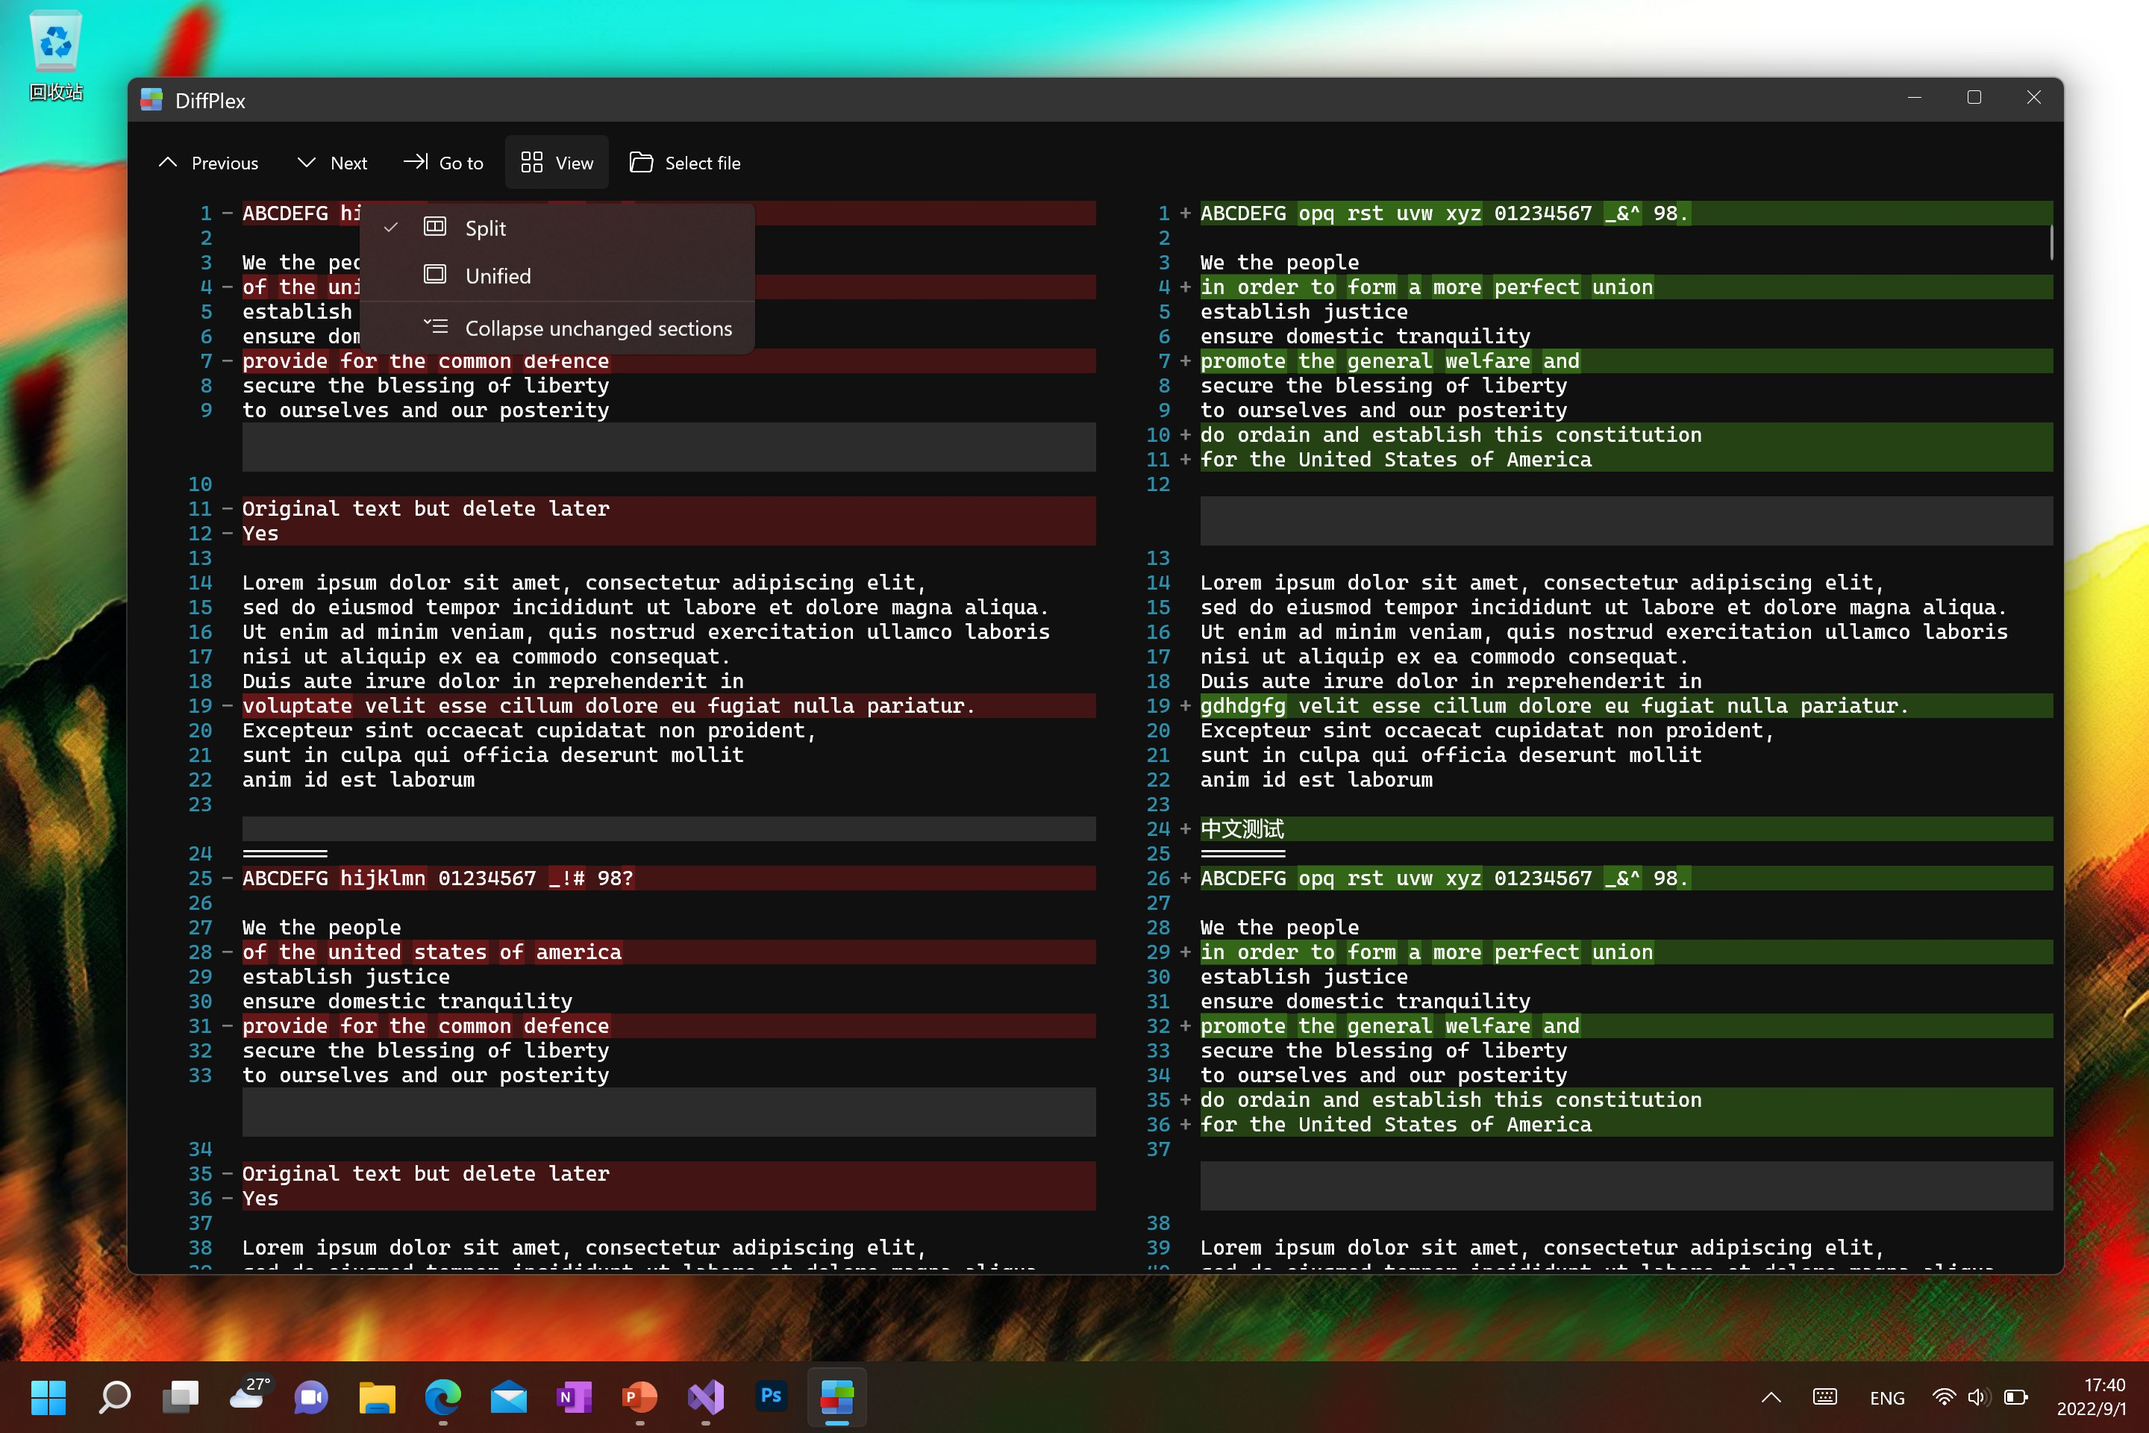
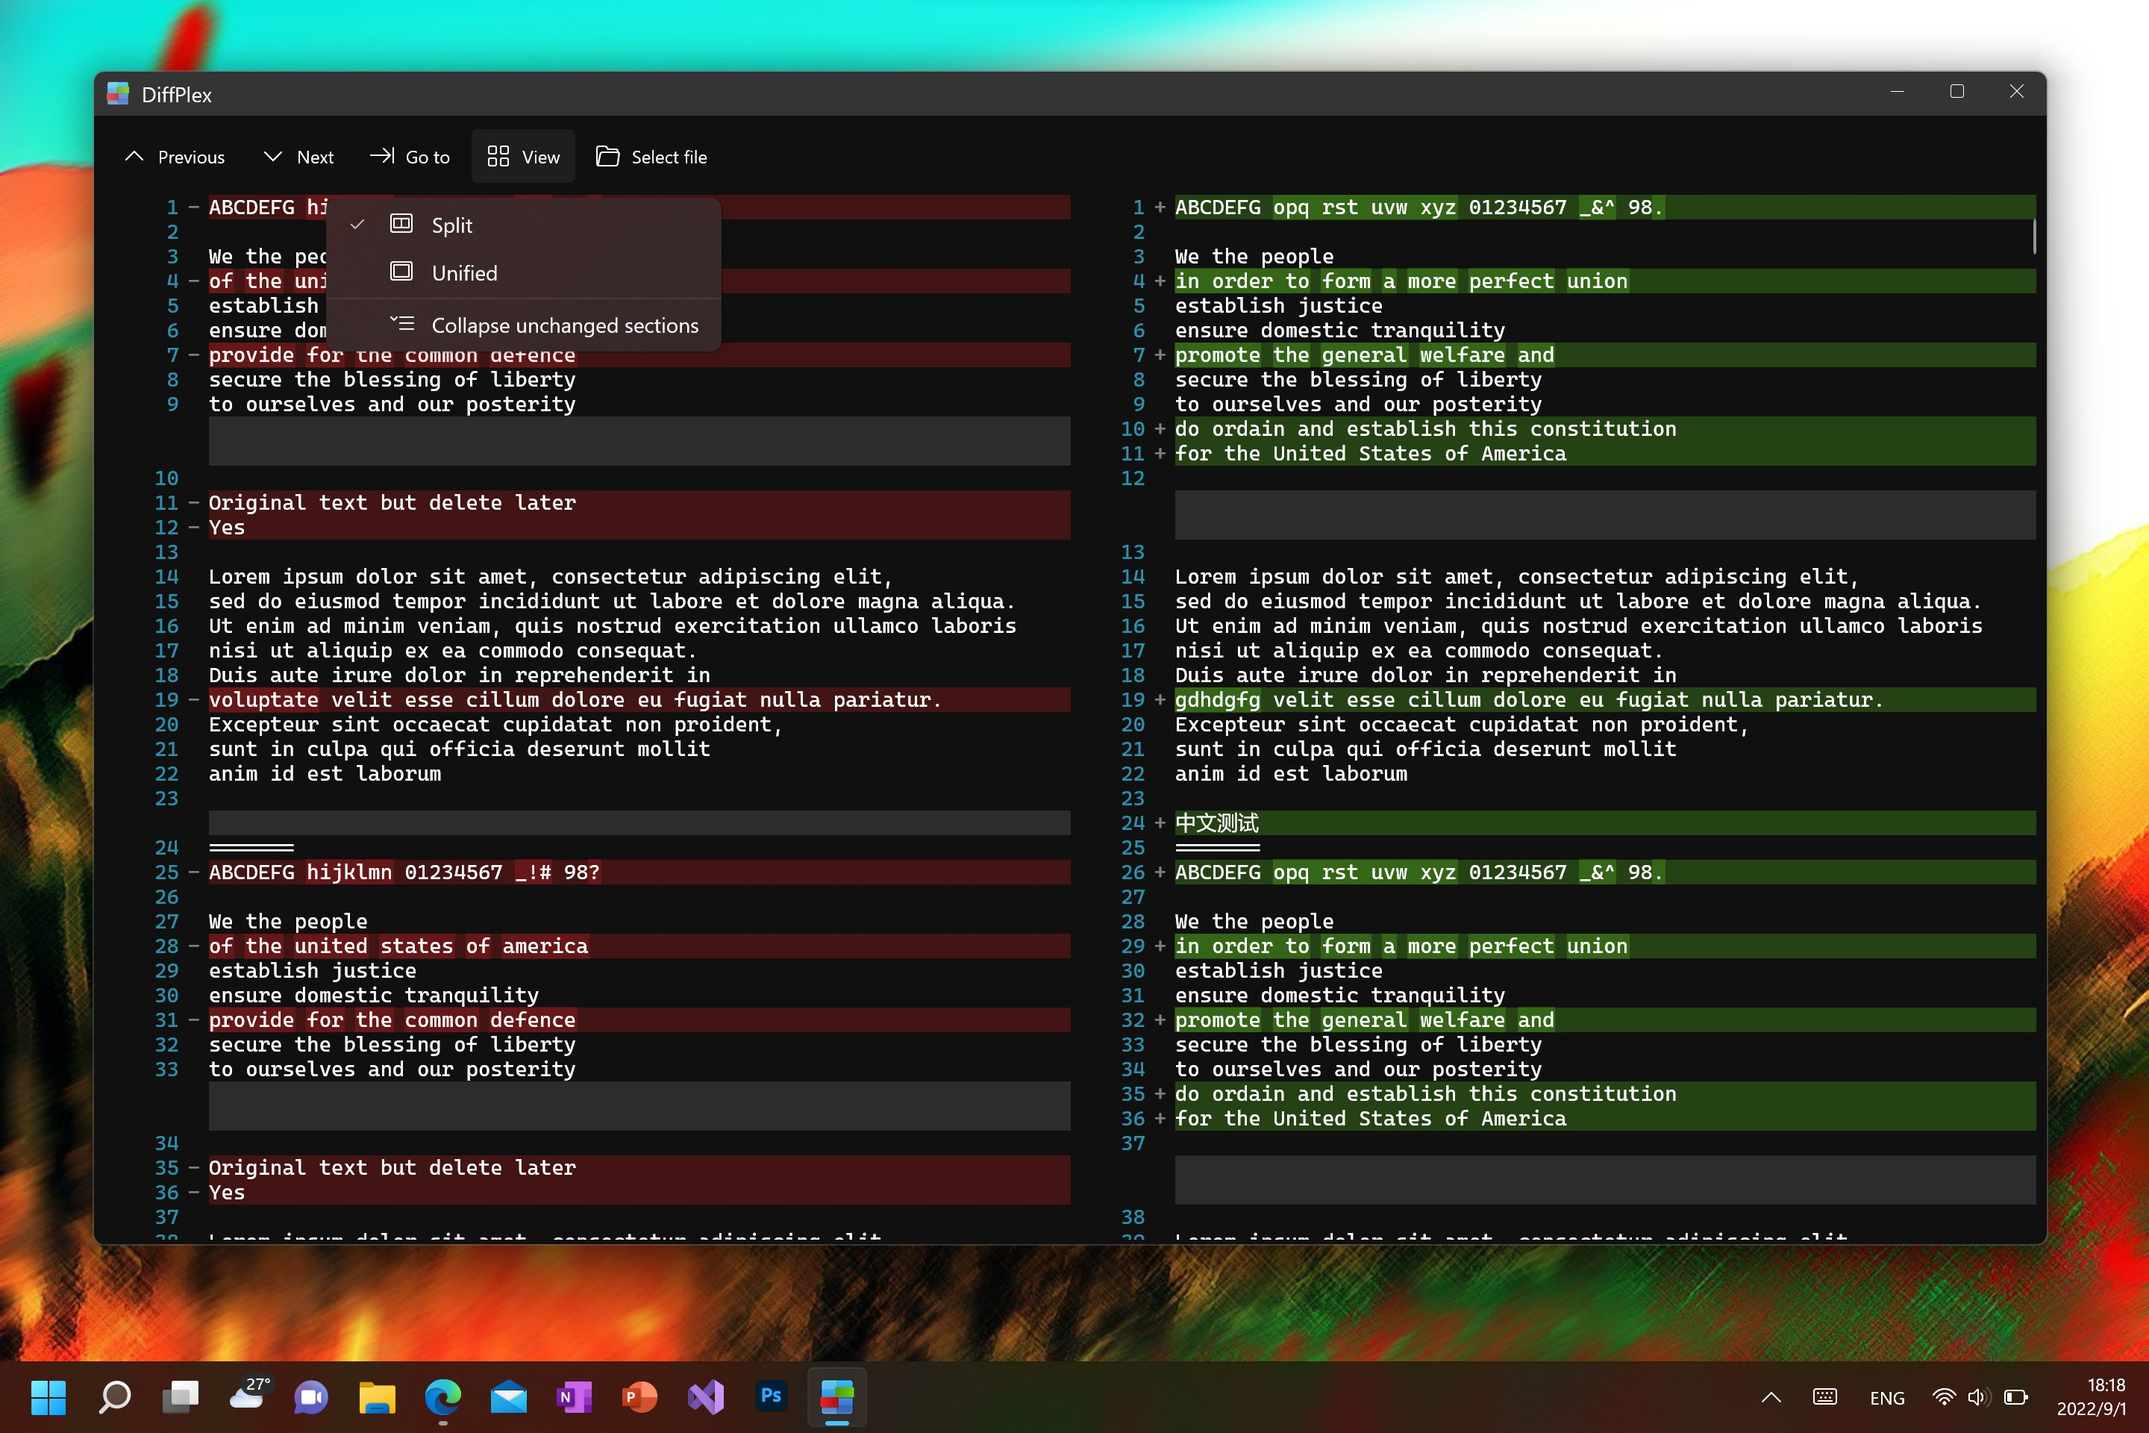
Update readme.

Changed region(s): [[0.0, 0.0, 0.9688, 0.9375]]

diff --git a/DiffPlex.Windows/DiffTextView.xaml b/DiffPlex.Windows/DiffTextView.xaml
@@ -39,7 +39,7 @@
                     </Style>
                 </Setter.Value>
             </Setter>
-            <Setter Property="PrefixStyle" >
+            <Setter Property="ChangeTypeStyle" >
                 <Setter.Value>
                     <Style TargetType="TextBlock" >
                         <Setter Property="Foreground" Value="#808080" />
@@ -108,7 +108,7 @@
                         </ToggleMenuFlyoutItem>
                         <MenuFlyoutSubItem x:Name="LinesContextMenuItem" x:Uid="\InternalResources\LineContextText" Text="Lines for context" Visibility="Collapsed" >
                             <MenuFlyoutSubItem.Icon>
-                                <FontIcon Glyph="&#xE170;" />
+                                <FontIcon Glyph="&#xE133;" />
                             </MenuFlyoutSubItem.Icon>
                             <ToggleMenuFlyoutItem Text="0" Click="OnLinesContextClick" />
                             <ToggleMenuFlyoutItem Text="1" Click="OnLinesContextClick" />
@@ -173,8 +173,8 @@
                             <ColumnDefinition Width="*" />
                             <ColumnDefinition Width="*" />
                         </Grid.ColumnDefinitions>
-                        <controls:TextLineBlock TextHighlighters="{x:Bind GetLeftHighlighter()}" Foreground="{Binding Path=Foreground, ElementName=CurrentControl}" TextBackground="{x:Bind Left.Type, Converter={StaticResource OldBrushConverter}}" LineNumberWidth="{Binding Path=LineNumberWidth, ElementName=CurrentControl}" LineNumber="{x:Bind Left.Position}" LineNumberStyle="{Binding Path=LineNumberStyle, ElementName=CurrentControl}" Prefix="{x:Bind Left.Type, Converter={StaticResource OldBrushConverter}}" PrefixWidth="{Binding Path=PrefixWidth, ElementName=CurrentControl}" PrefixStyle="{Binding Path=PrefixStyle, ElementName=CurrentControl}" Text="{x:Bind Left.Text}" TextStyle="{Binding Path=TextStyle, ElementName=CurrentControl}" IsTextSelectionEnabled="{Binding Path=IsTextSelectionEnabled, ElementName=CurrentControl}" Grid.Column="0" />
-                        <controls:TextLineBlock TextHighlighters="{x:Bind GetRightHighlighter()}" Foreground="{Binding Path=Foreground, ElementName=CurrentControl}" TextBackground="{x:Bind Right.Type, Converter={StaticResource NewBrushConverter}}" LineNumberWidth="{Binding Path=LineNumberWidth, ElementName=CurrentControl}" LineNumber="{x:Bind Right.Position}" LineNumberStyle="{Binding Path=LineNumberStyle, ElementName=CurrentControl}" Prefix="{x:Bind Right.Type, Converter={StaticResource NewBrushConverter}}" PrefixWidth="{Binding Path=PrefixWidth, ElementName=CurrentControl}" PrefixStyle="{Binding Path=PrefixStyle, ElementName=CurrentControl}" Text="{x:Bind Right.Text}" TextStyle="{Binding Path=TextStyle, ElementName=CurrentControl}" IsTextSelectionEnabled="{Binding Path=IsTextSelectionEnabled, ElementName=CurrentControl}" Grid.Column="1" />
+                        <controls:TextLineBlock TextHighlighters="{x:Bind GetLeftHighlighter()}" Foreground="{Binding Path=Foreground, ElementName=CurrentControl}" TextBackground="{x:Bind Left.Type, Converter={StaticResource OldBrushConverter}}" LineNumberWidth="{Binding Path=LineNumberWidth, ElementName=CurrentControl}" LineNumber="{x:Bind Left.Position}" LineNumberStyle="{Binding Path=LineNumberStyle, ElementName=CurrentControl}" Prefix="{x:Bind Left.Type, Converter={StaticResource OldBrushConverter}}" PrefixWidth="{Binding Path=ChangeTypeWidth, ElementName=CurrentControl}" PrefixStyle="{Binding Path=ChangeTypeStyle, ElementName=CurrentControl}" Text="{x:Bind Left.Text}" TextStyle="{Binding Path=TextStyle, ElementName=CurrentControl}" IsTextSelectionEnabled="{Binding Path=IsTextSelectionEnabled, ElementName=CurrentControl}" Grid.Column="0" />
+                        <controls:TextLineBlock TextHighlighters="{x:Bind GetRightHighlighter()}" Foreground="{Binding Path=Foreground, ElementName=CurrentControl}" TextBackground="{x:Bind Right.Type, Converter={StaticResource NewBrushConverter}}" LineNumberWidth="{Binding Path=LineNumberWidth, ElementName=CurrentControl}" LineNumber="{x:Bind Right.Position}" LineNumberStyle="{Binding Path=LineNumberStyle, ElementName=CurrentControl}" Prefix="{x:Bind Right.Type, Converter={StaticResource NewBrushConverter}}" PrefixWidth="{Binding Path=ChangeTypeWidth, ElementName=CurrentControl}" PrefixStyle="{Binding Path=ChangeTypeStyle, ElementName=CurrentControl}" Text="{x:Bind Right.Text}" TextStyle="{Binding Path=TextStyle, ElementName=CurrentControl}" IsTextSelectionEnabled="{Binding Path=IsTextSelectionEnabled, ElementName=CurrentControl}" Grid.Column="1" />
                     </Grid>
                 </DataTemplate>
             </ListView.ItemTemplate>
@@ -182,7 +182,7 @@
         <ListView x:Name="UnifiedElement" Foreground="{x:Bind Foreground}" Margin="0" Visibility="Collapsed" ItemContainerStyle="{x:Bind ItemContainerStyle}" SelectionMode="{x:Bind SelectionMode}" SelectionChanged="OnSelectionChanged" Grid.Row="1" >
             <ListView.ItemTemplate>
                 <DataTemplate x:DataType="local:InlineDiffTextViewModel" >
-                    <controls:TextLineBlock TextHighlighters="{x:Bind GetTextHighlighter()}" Foreground="{Binding Path=Foreground, ElementName=CurrentControl}" TextBackground="{x:Bind Line.Type, Converter={StaticResource NewBrushConverter}}" LineNumberWidth="{Binding Path=LineNumberWidth, ElementName=CurrentControl}" LineNumber="{x:Bind Position}" LineNumberStyle="{Binding Path=LineNumberStyle, ElementName=CurrentControl}" PrefixWidth="{Binding Path=PrefixWidth, ElementName=CurrentControl}" PrefixStyle="{Binding Path=PrefixStyle, ElementName=CurrentControl}" Text="{x:Bind Text}" TextStyle="{Binding Path=TextStyle, ElementName=CurrentControl}" IsTextSelectionEnabled="{Binding Path=IsTextSelectionEnabled, ElementName=CurrentControl}" />
+                    <controls:TextLineBlock TextHighlighters="{x:Bind GetTextHighlighter()}" Foreground="{Binding Path=Foreground, ElementName=CurrentControl}" TextBackground="{x:Bind Line.Type, Converter={StaticResource NewBrushConverter}}" LineNumberWidth="{Binding Path=LineNumberWidth, ElementName=CurrentControl}" LineNumber="{x:Bind Position}" LineNumberStyle="{Binding Path=LineNumberStyle, ElementName=CurrentControl}" PrefixWidth="{Binding Path=ChangeTypeWidth, ElementName=CurrentControl}" PrefixStyle="{Binding Path=ChangeTypeStyle, ElementName=CurrentControl}" Text="{x:Bind Text}" TextStyle="{Binding Path=TextStyle, ElementName=CurrentControl}" IsTextSelectionEnabled="{Binding Path=IsTextSelectionEnabled, ElementName=CurrentControl}" />
                 </DataTemplate>
             </ListView.ItemTemplate>
         </ListView>

diff --git a/DiffPlex.Windows/DiffTextView.xaml.cs b/DiffPlex.Windows/DiffTextView.xaml.cs
@@ -55,14 +55,14 @@ public sealed partial class DiffTextView : UserControl
     public static readonly DependencyProperty TextStyleProperty = DependencyObjectProxy.RegisterProperty<Style>(nameof(TextStyle));
 
     /// <summary>
-    /// The dependency property of prefix text style.
+    /// The dependency property of change type style.
     /// </summary>
-    public static readonly DependencyProperty PrefixStyleProperty = DependencyObjectProxy.RegisterProperty<Style>(nameof(PrefixStyle));
+    public static readonly DependencyProperty ChangeTypeStyleProperty = DependencyObjectProxy.RegisterProperty<Style>(nameof(ChangeTypeStyle));
 
     /// <summary>
-    /// The dependency property of prefix text width.
+    /// The dependency property of change type width.
     /// </summary>
-    public static readonly DependencyProperty PrefixWidthProperty = DependencyObjectProxy.RegisterProperty(nameof(PrefixWidth), new GridLength(20));
+    public static readonly DependencyProperty ChangeTypeWidthProperty = DependencyObjectProxy.RegisterProperty(nameof(ChangeTypeWidth), new GridLength(20));
 
     /// <summary>
     /// The dependency property of line number style.
@@ -186,21 +186,21 @@ public sealed partial class DiffTextView : UserControl
     }
 
     /// <summary>
-    /// Gets or sets the prefix text style.
+    /// Gets or sets the change type style.
     /// </summary>
-    public Style PrefixStyle
+    public Style ChangeTypeStyle
     {
-        get => (Style)GetValue(PrefixStyleProperty);
-        set => SetValue(PrefixStyleProperty, value);
+        get => (Style)GetValue(ChangeTypeStyleProperty);
+        set => SetValue(ChangeTypeStyleProperty, value);
     }
 
     /// <summary>
-    /// Gets or sets the width of prefix text.
+    /// Gets or sets the width of change type text.
     /// </summary>
-    public GridLength PrefixWidth
+    public GridLength ChangeTypeWidth
     {
-        get => (GridLength)GetValue(PrefixWidthProperty);
-        set => SetValue(PrefixWidthProperty, value);
+        get => (GridLength)GetValue(ChangeTypeWidthProperty);
+        set => SetValue(ChangeTypeWidthProperty, value);
     }
 
     /// <summary>
@@ -390,6 +390,35 @@ public sealed partial class DiffTextView : UserControl
     /// Scrolls to previous diff line.
     /// </summary>
     private static void ScrollPreviousDiffIntoView<T>(ListView list, Func<T, DiffPiece> resolver) where T : class
+    {
+        var elements = new List<(T, double)>();
+        foreach (var item in list.Items)
+        {
+            var container = list.ContainerFromItem(item) as ListViewItem;
+            if (container == null || item is not T model) continue;
+            var piece = resolver(model);
+            if (piece == null) continue;
+            var transform = container.TransformToVisual(list) as MatrixTransform;
+            if (transform == null) continue;
+            var pos = transform.Matrix.OffsetY;
+            var isUnchanged = piece.Type == ChangeType.Unchanged;
+            if (pos >= 0) break;
+            if (!isUnchanged) elements.Add((model, pos));
+        }
+
+        var height = -Math.Max(list.ActualHeight - 50, 10);
+        for (var i = 0; i < elements.Count; i++)
+        {
+            var (model, pos) = elements[i];
+            if (pos < height) continue;
+            list.ScrollIntoView(model);
+            return;
+        }
+
+        var first = list.Items.OfType<T>().FirstOrDefault();
+        if (first != null) list.ScrollIntoView(first);
+    }
+    private static void ScrollPreviousDiffIntoView2<T>(ListView list, Func<T, DiffPiece> resolver) where T : class
     {
         T target = null;
         foreach (var item in list.Items)

diff --git a/README.md b/README.md
@@ -158,7 +158,105 @@ DiffPlex also contains a sample website that shows how to create a basic side by
 
 ![Web page sample](./images/website.png)
 
-# WPF Controls
+# Windows app
+
+There are 2 libraries for Windows app development.
+One is for Windows App SDK, another is for WPF and WinForms.
+
+## WinUI 3 Elements
+
+[![NuGet](https://img.shields.io/nuget/v/DiffPlex.Windows.svg)](https://www.nuget.org/packages/DiffPlex.Windows/)
+
+DiffPlex WinUI library `DiffPlex.Windows` is used to render textual diffs in your app which targets to Windows App SDK.
+
+```csharp
+using DiffPlex.UI;
+```
+
+And insert following code into the root node of your xaml file, e.g. user control, page or window.
+
+```
+xmlns:diffplex="using:DiffPlex.UI"
+```
+
+- `DiffTextView` Textual diffs view element.
+
+For example.
+
+```xaml
+<diffplex:DiffTextView x:Name="DiffView" />
+```
+
+```csharp
+DiffView.OldText = OldText;
+DiffView.NewText = NewText;
+```
+
+![WinUI sample](./images/wasdk_split_dark.jpg)
+
+You can also customize the style.
+Following are some of the properties you can get or set.
+
+```csharp
+// true if it is in split view; otherwise, false, in unified view.
+public bool IsSplitView { get; set; }
+
+// true if it is in unified view; otherwise, false, in split view.
+public bool IsUnifiedView { get; set; }
+
+// The selection mode of list view. Default is None.
+public ListViewSelectionMode SelectionMode { get; set; }
+
+// true if ignore white spaces; otherwise, false. Default is true.
+public bool IgnoreWhiteSpace { get; set; }
+
+// true if the text is case sensitive; otherwise, false. Default is false.
+public bool IsCaseSensitive { get; set; }
+
+// The default text color (foreground brush).
+public Brush Foreground { get; set; }
+
+// The background.
+public Brush Background { get; set; }
+
+// The width of the line number. Default is 50.
+public GridLength LineNumberWidth { get; set; }
+
+// The style of the line number.
+public Style LineNumberStyle { get; set; }
+
+// The width of the change type symbol. Default is 20.
+public GridLength ChangeTypeWidth { get; set; }
+
+// The style of the change type symbol.
+public Style ChangeTypeStyle { get; set; }
+
+// The style of the text.
+public Style TextStyle { get; set; }
+
+// true if the text is selection enabled; otherwise, false. Default is true.
+public bool IsTextSelectionEnabled { get; set; }
+
+// true if collapse unchanged sections; otherwise, false. Default is false.
+public bool IsUnchangedSectionCollapsed { get; set; }
+
+// The lines for context. Default is 2.
+public int LineCountForContext { get; set; }
+
+// true if the file selector menu button is enabled; otherwise, false. Default is true.
+public bool IsFileMenuEnabled { get; set; }
+
+// The height of command bar. Default is 50.
+public GridLength CommandBarHeight { get; set; }
+
+// The default label position of command bar. Default is Right.
+public CommandBarDefaultLabelPosition CommandLabelPosition { get; set; }
+
+// The collection of secondary command elements for the command bar.
+public IObservableVector<ICommandBarElement> SecondaryCommands { get; }
+```
+
+## WPF Controls
 
 [![NuGet](https://img.shields.io/nuget/v/DiffPlex.Wpf.svg)](https://www.nuget.org/packages/DiffPlex.Wpf/)
 
@@ -174,8 +272,6 @@ To import the controls into your window/page/control, please insert following at
 ```
 xmlns:diffplex="clr-namespace:DiffPlex.Wpf.Controls;assembly=DiffPlex.Wpf"
 ```
-
-Then you can add one of following controls in UI.
 
 - `DiffViewer` Textual diffs viewer control with view mode switching by setting an old text and a new text to diff.
 - `SideBySideDiffViewer` Side-by-side (splitted) textual diffs viewer control by setting a diff model `SideBySideDiffModel`.
@@ -200,9 +296,6 @@ Following are some of the properties you can get or set.
 ```csharp
 // The header of old text.
 public string OldTextHeader { get; set; }
-
-// The header of new text.
-public string NewTextHeader { get; set; }
 
 // The header of new text.
 public string NewTextHeader { get; set; }
@@ -286,7 +379,7 @@ public event DragStartedEventHandler SplitterDragStarted;
 public event EventHandler<ViewModeChangedEventArgs> ViewModeChanged;
 ```
 
-# WinForms Controls
+## WinForms Controls
 
 [![NuGet](https://img.shields.io/nuget/v/DiffPlex.Wpf.svg)](https://www.nuget.org/packages/DiffPlex.Wpf/)
 
@@ -332,9 +425,6 @@ Following are some of the properties you can get or set.
 ```csharp
 // The header of old text.
 public string OldTextHeader { get; set; }
-
-// The header of new text.
-public string NewTextHeader { get; set; }
 
 // The header of new text.
 public string NewTextHeader { get; set; }

diff --git a/DiffPlex.App/README.md b/DiffPlex.App/README.md
@@ -8,7 +8,6 @@ In `MainWindow.xaml` and its `MainWindow.xaml.cs` file, we initialize an instanc
 
 Please ensure it runs on Package mode since the project configuration file is applied for MSIX package.
 
-The CPU arch platform should be one of `x64`, `x86` and `arm64`. It will be fail to run on `Any CPU` because of Windows App SDK.
+The CPU architecture platform should be one of `x64`, `x86` and `arm64`.
 
-It will show a demo diff text on Debug mode, so please make sure to select Debug;
-and a file selector on Release mode because it is designed to be available to publish to Microsoft Store.
+It will output test data of texture diffs on `Debug` mode and empty on Release mode.
